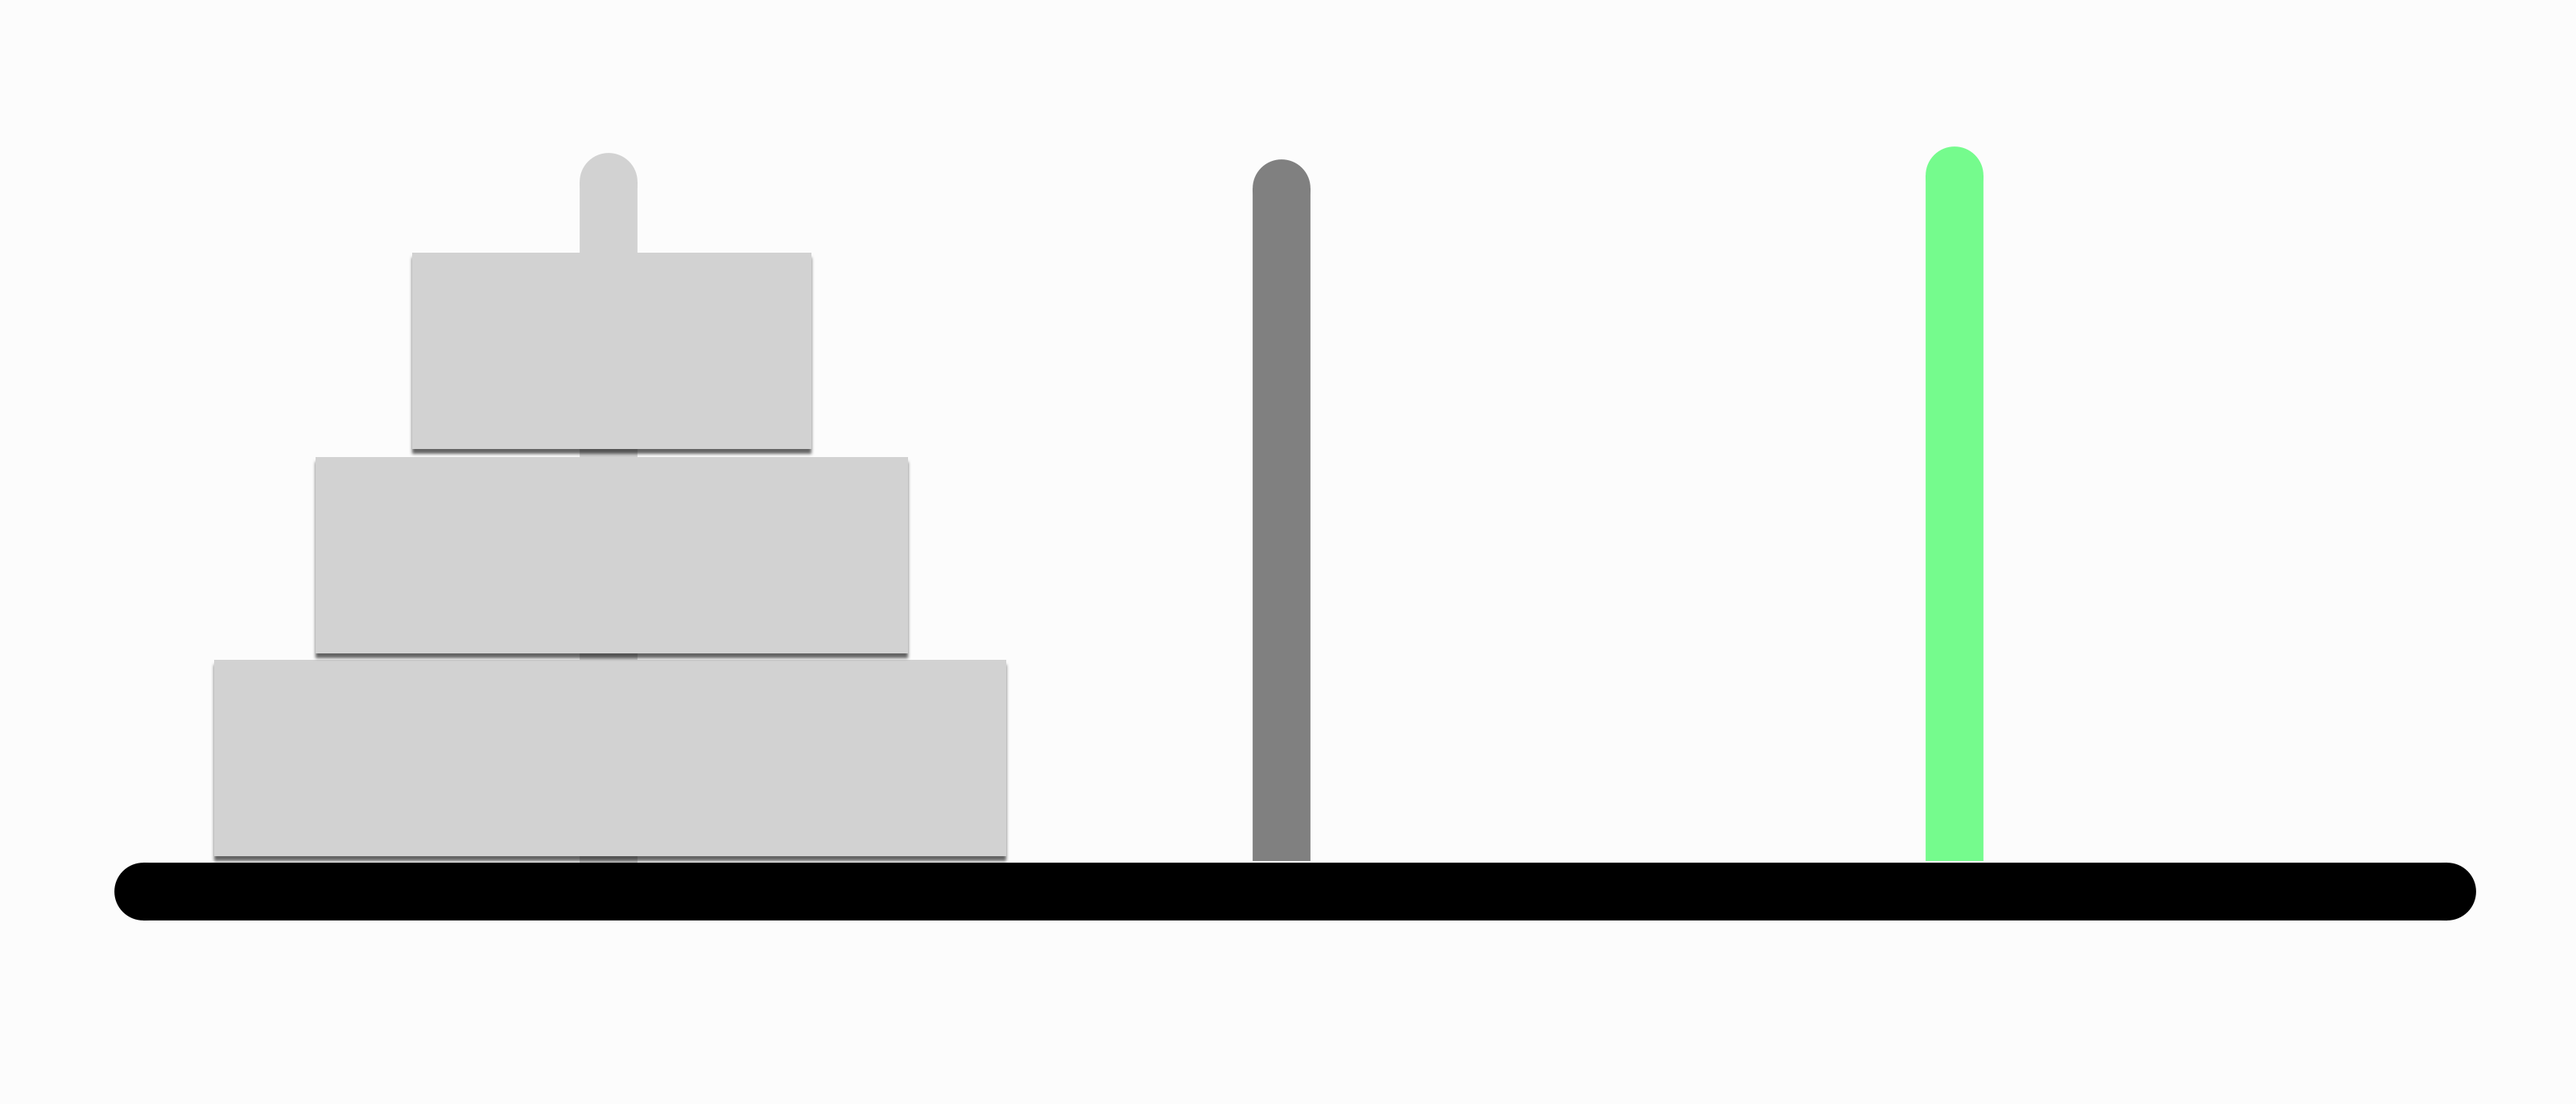
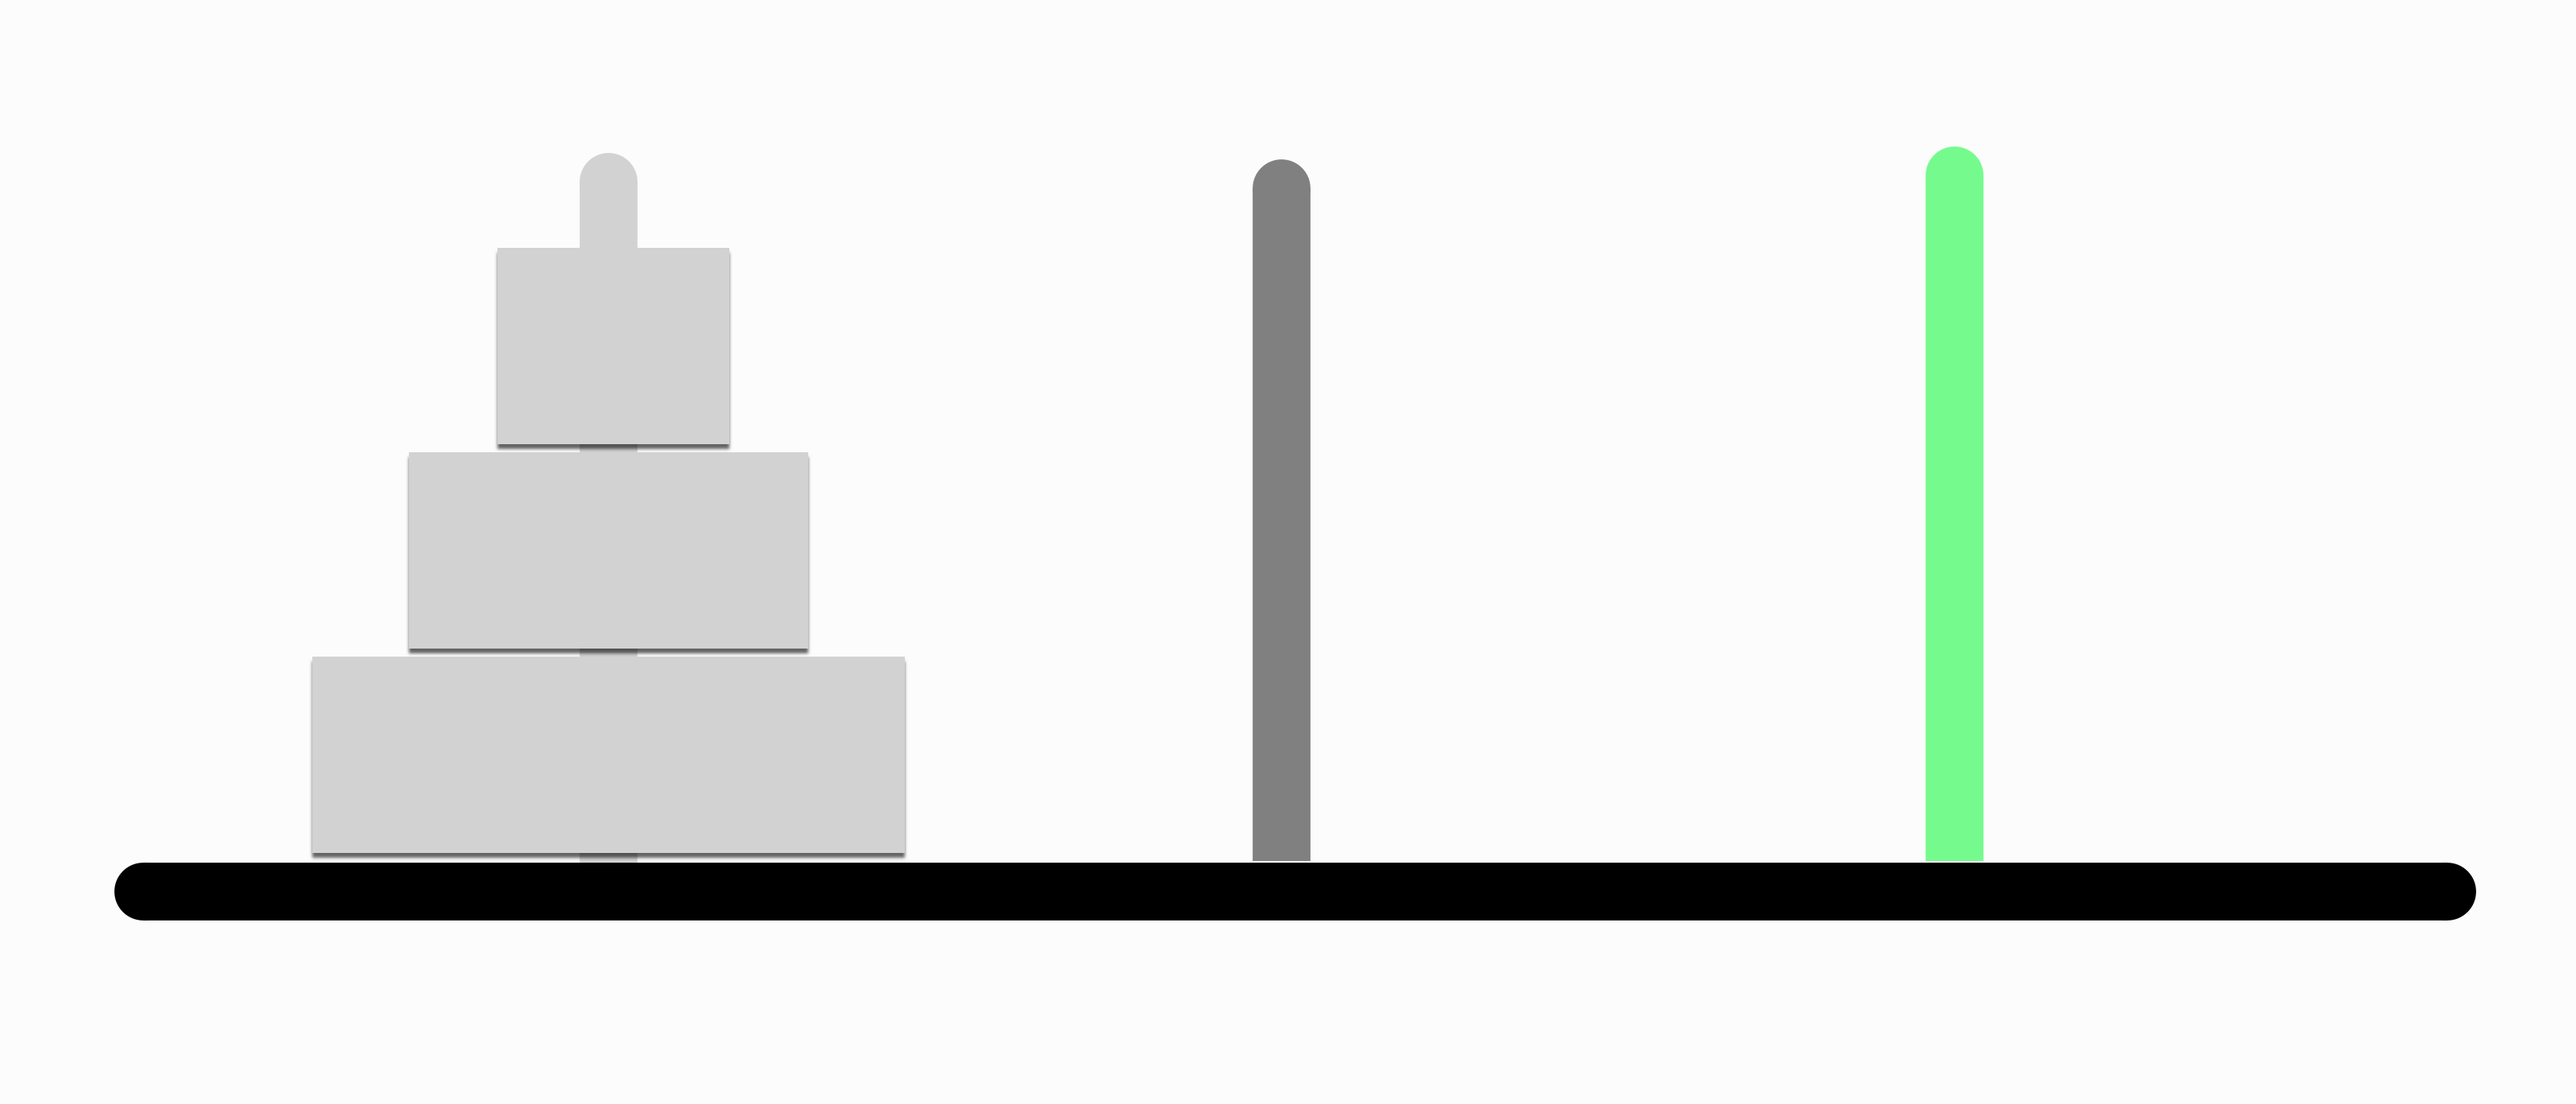
and more

Changed region(s): [[0.0625, 0.2143, 0.4062, 0.7959]]

diff --git a/_posts/2022-02-14-help-wanted-explained.md b/_posts/2022-02-14-help-wanted-explained.md
@@ -43,7 +43,7 @@ Fifth move:
 
 Penultimate move:
 
-![Sixth Move](/assets/images/game/sixth-move.png)
+![Sixth Move](/assets/images/game/sixth-move.png)![Hanoi Second](../assets/images/game/hanoi-second.png)
 
 Final move:
 
@@ -62,6 +62,18 @@ This game has a name, it is called **Hanoing**. Its name is taken from the class
 
 [^FernandoRodriguezVillegas] The Hanoing representation is attributed to [Fernando Rodriguez Villegas](https://users.ictp.it/~villegas/)
 
-To see the similarity, here's a three-disc tower, with the pegs coloured. We'll pretend the discs are made of some transparent material that takes on the colour of the peg it is on. The initial position looks like this:
+To see the similarity, here's a three-disc tower, with the pegs coloured. We'll pretend the discs are made of some transparent material that takes on the colour of the peg it is on.
+
+The initial position looks like this:
 
 ![Hanoi Initial](/assets/images/game/hanoi-initial.png)
+
+And after the first move, the game looks like this:
+
+![Hanoi Second](../assets/images/game/hanoi-second.png)
+
+And after the second move, it looks like this:
+
+![Hanoi Third](../assets/images/game/hanoi-third.png)
+
+If we think of our row of squares representing the discs from smallest to largest, the color shows which peg the disc is on, and the two Hanoing rules describe that you can only move a disc from the top of a peg, and only onto a peg that doesn't have a smaller disc on top.
